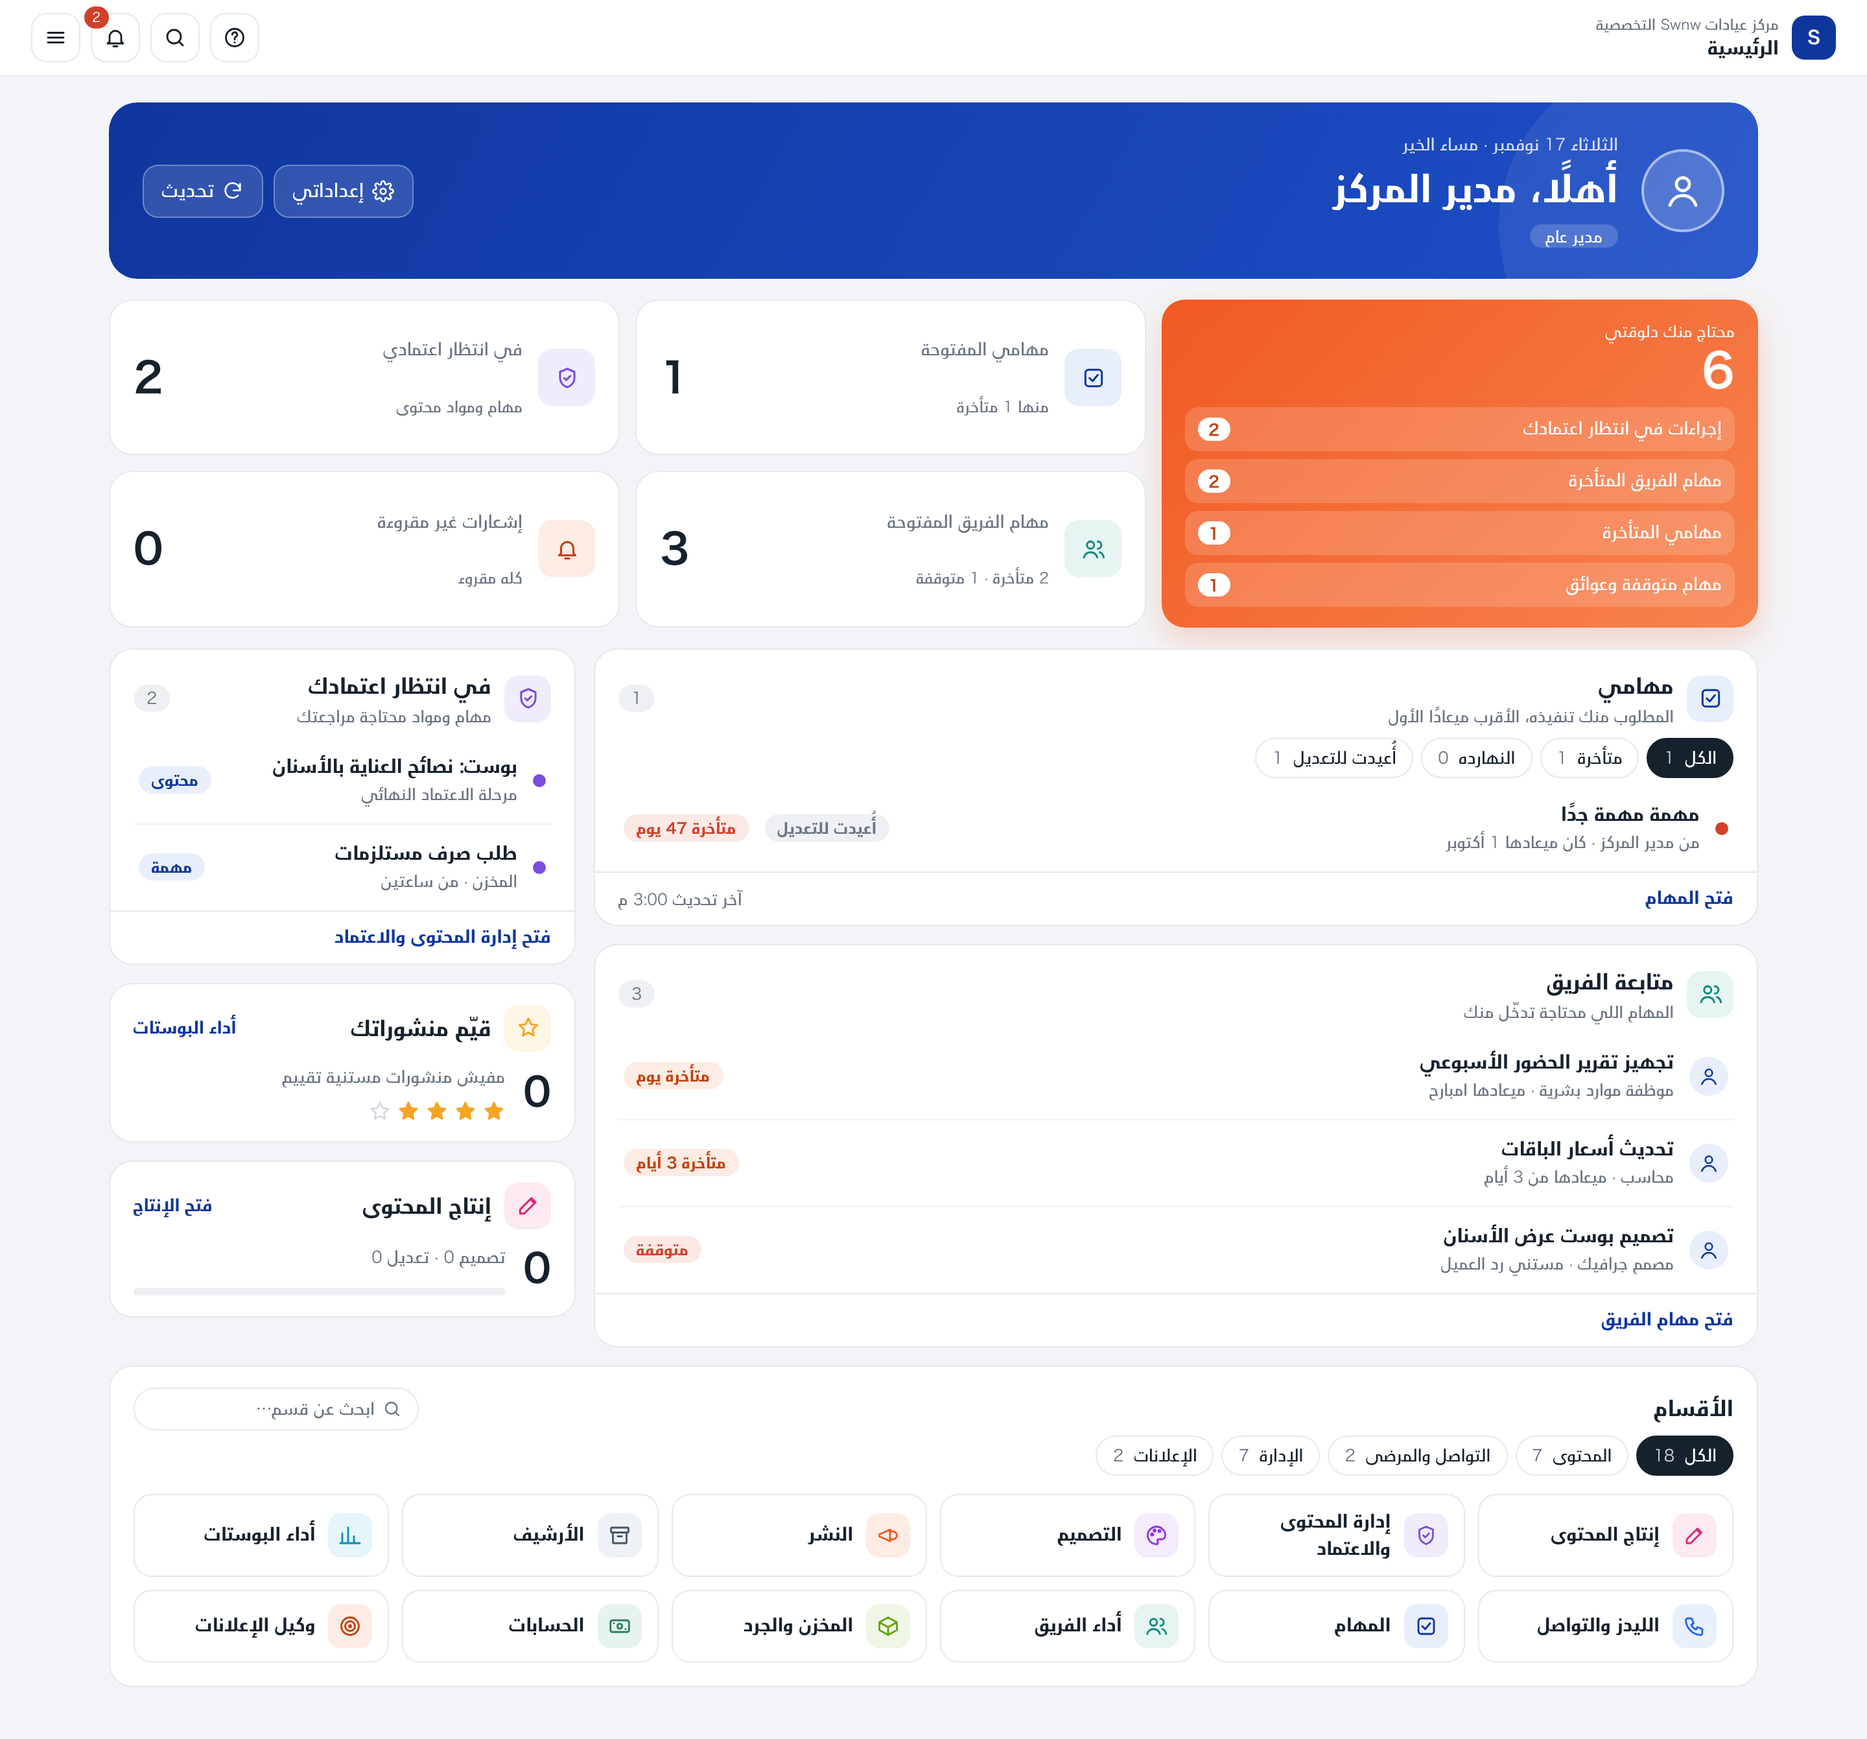
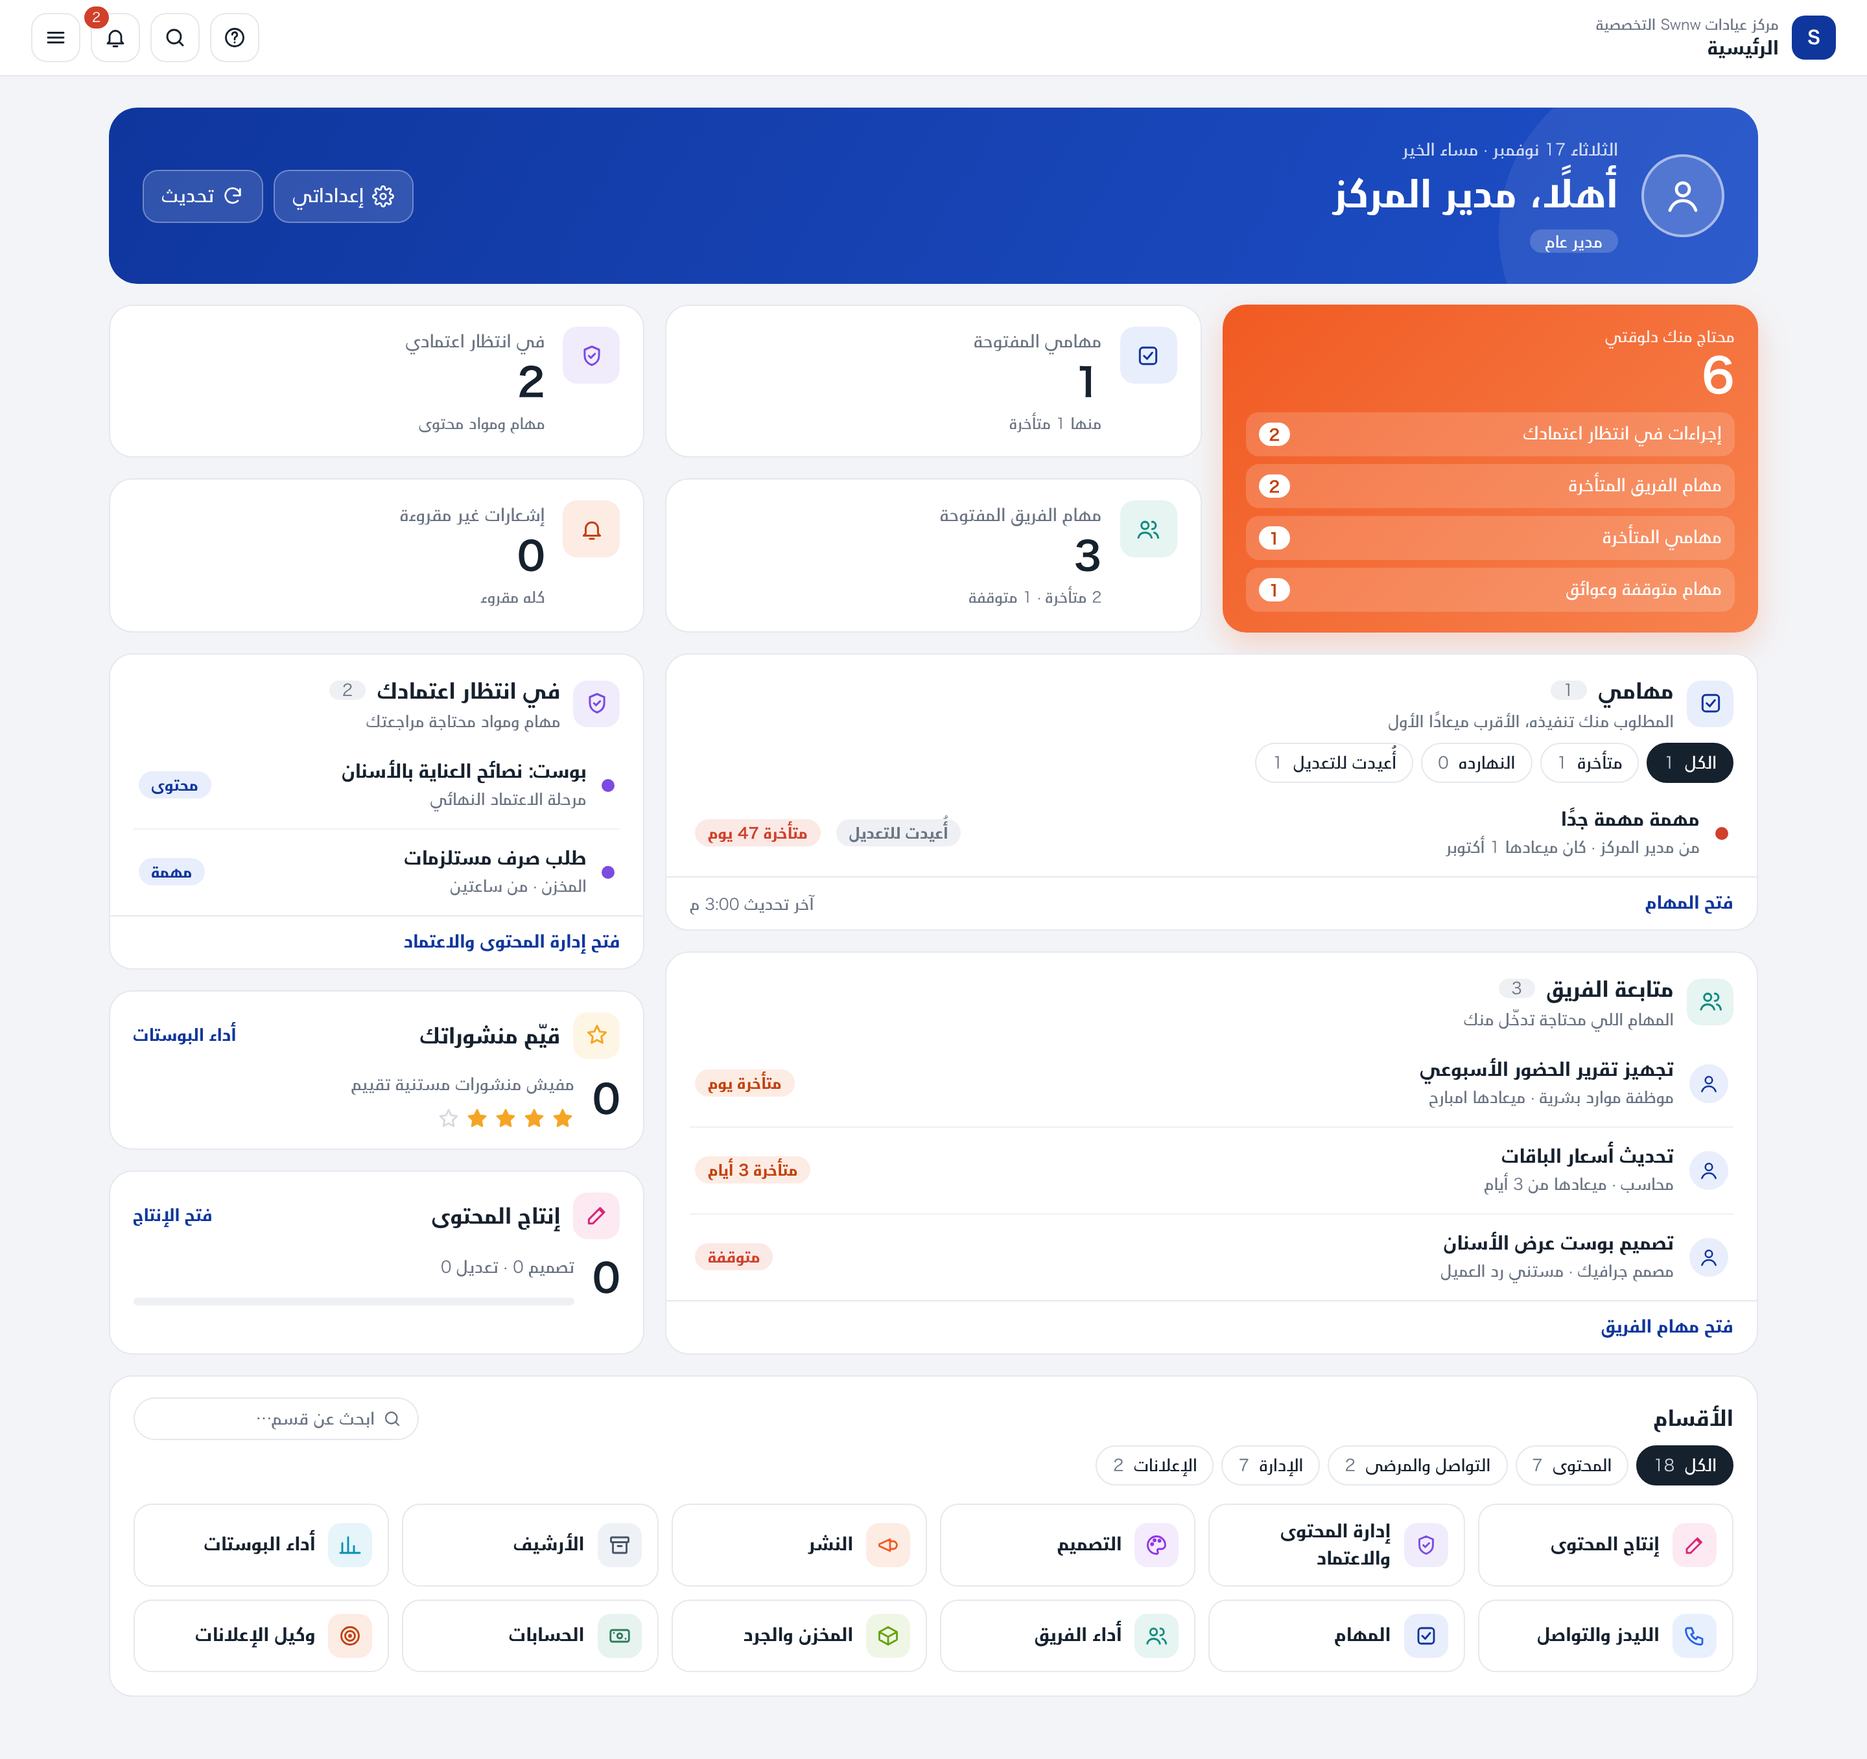
docs: layout-check QA tool, home mockup on one grid (single gutter, aligned edges, equal column bottoms), QA gate in README
Claude-Session: https://claude.ai/code/session_01UqVZHZihapbfrPRQkyZErA

diff --git a/docs/ui-references/mockups/home.html b/docs/ui-references/mockups/home.html
@@ -10,7 +10,7 @@
 @font-face{font-family:"BigVesta Arabic";src:url("../../../assets/fonts/BigVesta-Bold.woff2") format("woff2");font-weight:700}
 @font-face{font-family:"Hiragino Kaku";src:url("../../../assets/fonts/Hiragino-W3.woff2") format("woff2");font-weight:300}
 @font-face{font-family:"Hiragino Kaku";src:url("../../../assets/fonts/Hiragino-W6.woff2") format("woff2");font-weight:600}
-:root{--blue:#0F369D;--orange:#F15A22;--ink:#16212E;--pos:#2F7D5C;--neg:#D0402A;--bg:#F3F4F7;--line:#E6E8EE;--muted:#6B7483;--r:18px;--ease:cubic-bezier(.2,.8,.2,1)}
+:root{--gap:16px;--blue:#0F369D;--orange:#F15A22;--ink:#16212E;--pos:#2F7D5C;--neg:#D0402A;--bg:#F3F4F7;--line:#E6E8EE;--muted:#6B7483;--r:18px;--ease:cubic-bezier(.2,.8,.2,1)}
 *{box-sizing:border-box}
 body{margin:0;background:var(--bg);color:var(--ink);font-family:"Hiragino Kaku","BigVesta Arabic",system-ui,Tahoma,sans-serif;font-size:14px;font-variant-numeric:tabular-nums}
 svg{fill:none;stroke:currentColor;stroke-width:1.9;stroke-linecap:round;stroke-linejoin:round}
@@ -21,7 +21,7 @@ svg{fill:none;stroke:currentColor;stroke-width:1.9;stroke-linecap:round;stroke-l
 .ib{width:38px;height:38px;border-radius:12px;border:1px solid var(--line);background:#fff;display:grid;place-items:center;position:relative;cursor:pointer;transition:all .2s var(--ease)}
 .ib svg{width:18px;height:18px}.ib:hover{background:#F3F5FA;transform:translateY(-1px)}
 .badge{position:absolute;top:-6px;left:-6px;background:var(--neg);color:#fff;font-size:10px;border-radius:9px;padding:1px 6px}
-main{max-width:1320px;margin:0 auto;padding:20px 24px 40px}
+main{max-width:1320px;margin:0 auto;padding:24px 24px 48px;display:flex;flex-direction:column;gap:var(--gap)}
 /* welcome */
 .hello{background:linear-gradient(120deg,#0F369D,#1E4FC8);color:#fff;border-radius:22px;padding:22px 26px;display:flex;align-items:center;gap:18px;position:relative;overflow:hidden}
 .hello::after{content:"";position:absolute;inset:auto -60px -90px auto;width:260px;height:260px;border-radius:50%;background:rgba(255,255,255,.07)}
@@ -33,28 +33,34 @@ main{max-width:1320px;margin:0 auto;padding:20px 24px 40px}
 .hb{background:rgba(255,255,255,.14);border:1px solid rgba(255,255,255,.3);color:#fff;border-radius:12px;padding:9px 14px;display:flex;gap:6px;align-items:center;font:inherit;cursor:pointer;transition:all .2s var(--ease)}
 .hb svg{width:17px;height:17px}.hb:hover{background:#fff;color:var(--blue)}
 /* top row */
-.row1{display:grid;grid-template-columns:1.15fr 2fr;gap:12px;margin:16px 0}
-.kgrid{display:grid;grid-template-columns:1fr 1fr;gap:12px}
+/* one 3-column system for every row: edges line up from top to bottom */
+.row1,.grid{display:grid;grid-template-columns:repeat(3,minmax(0,1fr));gap:var(--gap)}
+.kgrid{grid-column:span 2;display:grid;grid-template-columns:1fr 1fr;gap:var(--gap)}
 .need{background:linear-gradient(135deg,#F15A22,#F7834F);color:#fff;border-radius:var(--r);padding:16px 18px;grid-row:span 1;display:flex;flex-direction:column;box-shadow:0 10px 24px rgba(241,90,34,.22)}
 .need small{opacity:.9}.need>b{font-size:36px;line-height:1.1;margin:2px 0 8px}
 .need .l{display:flex;flex-direction:column;gap:6px;margin-top:auto}
 .need a{background:rgba(255,255,255,.17);border-radius:10px;padding:7px 10px;display:flex;justify-content:space-between;align-items:center;color:#fff;text-decoration:none;font-size:13px;cursor:pointer;transition:all .2s var(--ease)}
 .need a b{background:#fff;color:#C2410C;border-radius:999px;padding:0 8px;font-size:12px}
 .need a:hover{background:rgba(255,255,255,.3);padding-inline:14px}
-.k{background:#fff;border:1px solid var(--line);border-radius:var(--r);padding:16px 18px;display:grid;grid-template-columns:44px 1fr auto;grid-template-rows:auto auto;column-gap:12px;align-items:center;cursor:pointer;transition:transform .22s var(--ease),box-shadow .22s var(--ease),border-color .2s}
+.k{background:#fff;border:1px solid var(--line);border-radius:var(--r);padding:16px 18px;display:grid;grid-template-columns:44px 1fr;grid-template-rows:auto auto auto;column-gap:14px;row-gap:2px;align-items:center;cursor:pointer;transition:transform .22s var(--ease),box-shadow .22s var(--ease),border-color .2s}
 .k:hover{transform:translateY(-3px);box-shadow:0 10px 22px rgba(22,33,46,.08);border-color:#C9D4EE}
-.k .ic{grid-row:span 2;width:44px;height:44px;border-radius:11px;display:grid;place-items:center;background:var(--t);color:var(--c)}.k .ic svg{width:19px;height:19px}
-.k small{color:var(--muted);font-size:13px}.k b{font-size:32px;line-height:1.1;grid-row:span 2;grid-column:3}
-.k i{font-style:normal;font-size:11.5px;color:var(--muted);grid-column:2}
+.k .ic{grid-row:1 / span 3;align-self:start;width:44px;height:44px;border-radius:11px;display:grid;place-items:center;background:var(--t);color:var(--c)}.k .ic svg{width:19px;height:19px}
+.k small{color:var(--muted);font-size:13px}.k b{font-size:30px;line-height:1.1;grid-column:2;grid-row:2}
+.k i{font-style:normal;font-size:11.5px;color:var(--muted);grid-column:2;grid-row:3}
+.k small{grid-column:2;grid-row:1}
 /* two columns */
-.grid{display:grid;grid-template-columns:minmax(0,1fr) 360px;gap:14px;align-items:stretch}
-.col{display:flex;flex-direction:column;gap:14px;min-width:0}
+.grid{align-items:stretch}
+.col{display:flex;flex-direction:column;gap:var(--gap);min-width:0}
+.col.wide{grid-column:span 2}
+/* the last card of each column grows so both columns end on the same line */
+.col>:last-child{flex:1}
+.col>.two{display:flex;flex-direction:column}.col>.two>:last-child{flex:1}
 .card{background:#fff;border:1px solid var(--line);border-radius:var(--r);overflow:hidden;display:flex;flex-direction:column;transition:transform .22s var(--ease),box-shadow .22s var(--ease)}
 .card:hover{box-shadow:0 12px 26px rgba(22,33,46,.06)}
 .ch{display:flex;align-items:center;gap:10px;padding:16px 18px 8px}
 .ch .ci{width:36px;height:36px;border-radius:11px;display:grid;place-items:center;background:var(--t);color:var(--c);flex:none}.ch .ci svg{width:19px;height:19px}
 .ch h3{margin:0;font-size:16px}.ch h3 small{display:block;font-weight:400;color:var(--muted);font-size:12px;margin-top:2px}
-.ch .cnt{margin-inline-start:auto;background:#EEF0F4;border-radius:999px;padding:1px 10px;font-size:12.5px;color:var(--muted)}
+.ch .cnt{vertical-align:2px;margin-inline-start:4px;font-weight:400;background:#EEF0F4;border-radius:999px;padding:1px 10px;font-size:12.5px;color:var(--muted)}
 .seg{display:flex;gap:6px;padding:0 18px 6px;flex-wrap:wrap}
 .pill{border:1px solid var(--line);background:#fff;border-radius:999px;padding:5px 12px;font-size:12.5px;cursor:pointer;transition:all .2s var(--ease)}
 .pill i{font-style:normal;color:var(--muted);margin-inline-start:4px}
@@ -74,12 +80,12 @@ main{max-width:1320px;margin:0 auto;padding:20px 24px 40px}
 .lnk:hover{background-size:100% 2px}
 .card .ch .lnk{margin-inline-start:auto;font-size:12.5px}
 .foot small{color:var(--muted);font-size:12px}
-.two{display:grid;grid-template-columns:1fr;gap:14px}
+.two{gap:var(--gap)}
 .mini{padding:0 18px 14px;display:grid;grid-template-columns:auto 1fr;column-gap:14px;align-items:center}.mini b.big{font-size:30px;grid-row:span 2}.mini .prog,.mini .stars{grid-column:2}.mini p{margin:2px 0 0;color:var(--muted);font-size:12.5px}
 .prog{height:6px;border-radius:6px;background:#EEF0F4;overflow:hidden;margin-top:10px}.prog i{display:block;height:100%;background:var(--c);border-radius:6px}
 .stars{display:flex;gap:4px;margin-top:8px;color:#F5A524}.stars svg{width:18px;height:18px;fill:#F5A524;stroke:#F5A524}.stars svg.e{fill:none;stroke:#D5D9E2}
 /* quick access */
-.qa{margin-top:14px}
+
 .qa .ch{padding-bottom:4px}
 .qs{margin-inline-start:auto;display:flex;align-items:center;gap:6px;border:1px solid var(--line);border-radius:999px;padding:6px 12px;color:var(--muted);font-size:12.5px;min-width:220px}.qs svg{width:15px;height:15px}
 .tiles{display:grid;grid-template-columns:repeat(auto-fill,minmax(190px,1fr));gap:10px;padding:8px 18px 18px}
@@ -93,12 +99,13 @@ main{max-width:1320px;margin:0 auto;padding:20px 24px 40px}
 .hello,.need,.k,.card{animation:rise .5s var(--ease) both}
 .k:nth-child(2){animation-delay:.04s}.k:nth-child(3){animation-delay:.08s}.k:nth-child(4){animation-delay:.12s}
 @keyframes rise{from{opacity:0;transform:translateY(12px)}}
-@media (max-width:1100px){.row1{grid-template-columns:1fr}.grid{grid-template-columns:1fr}}
+@media (max-width:1100px){.row1,.grid{grid-template-columns:1fr}.kgrid,.col.wide{grid-column:auto}}
 @media (max-width:640px){
- main{padding:14px 12px 30px}.top{padding:10px 12px}.top .hide-m{display:none}
+ :root{--gap:12px}
+ main{padding:16px 12px 32px}.top{padding:10px 12px}.top .hide-m{display:none}
  .hello{padding:18px;flex-wrap:wrap}.hello h1{font-size:22px}.ph{width:52px;height:52px}
  .hello .acts{margin:0;width:100%}.hb{flex:1;justify-content:center}
- .row1{gap:10px}.kgrid{gap:10px}.k{padding:12px;grid-template-columns:36px 1fr auto;column-gap:8px}.k .ic{width:36px;height:36px}.k b{font-size:24px}.k small{font-size:12px}.k i{display:none}
+ .k{padding:12px;grid-template-columns:36px 1fr;column-gap:10px}.k .ic{width:36px;height:36px}.k b{font-size:24px}.k small{font-size:12px}.k i{display:none}
  .two{grid-template-columns:1fr}.qs{display:none}.tiles{grid-template-columns:repeat(3,1fr);gap:8px;padding:6px 12px 14px}
  .tile{flex-direction:column;text-align:center;padding:10px 6px;gap:6px}.tile b{font-size:12px}
  .it{flex-wrap:wrap;row-gap:6px}.it .tx{flex:1 1 calc(100% - 50px)}.it .chip:first-of-type{margin-inline-start:42px}
@@ -169,9 +176,9 @@ main{max-width:1320px;margin:0 auto;padding:20px 24px 40px}
  </section>
 
  <div class="grid">
-  <div class="col">
+  <div class="col wide">
    <article class="card" style="--c:#0F369D;--t:#E8EEFB">
-    <div class="ch"><span class="ci"><svg><use href="#task"/></svg></span><h3>مهامي<small>المطلوب منك تنفيذه، الأقرب ميعادًا الأول</small></h3><span class="cnt">1</span></div>
+    <div class="ch"><span class="ci"><svg><use href="#task"/></svg></span><h3>مهامي <span class="cnt">1</span><small>المطلوب منك تنفيذه، الأقرب ميعادًا الأول</small></h3></div>
     <div class="seg"><span class="pill on">الكل <i>1</i></span><span class="pill">متأخرة <i>1</i></span><span class="pill">النهارده <i>0</i></span><span class="pill">أُعيدت للتعديل <i>1</i></span></div>
     <ul class="list">
      <li class="it"><span class="dot" style="--c:#D0402A"></span><div class="tx"><b>مهمة مهمة جدًا</b><small>من مدير المركز · كان ميعادها 1 أكتوبر</small></div><span class="chip c-gry">أُعيدت للتعديل</span><span class="chip c-red">متأخرة 47 يوم</span></li>
@@ -180,7 +187,7 @@ main{max-width:1320px;margin:0 auto;padding:20px 24px 40px}
    </article>
 
    <article class="card" style="--c:#0E8A7E;--t:#E6F4F2">
-    <div class="ch"><span class="ci"><svg><use href="#team"/></svg></span><h3>متابعة الفريق<small>المهام اللي محتاجة تدخّل منك</small></h3><span class="cnt">3</span></div>
+    <div class="ch"><span class="ci"><svg><use href="#team"/></svg></span><h3>متابعة الفريق <span class="cnt">3</span><small>المهام اللي محتاجة تدخّل منك</small></h3></div>
     <ul class="list">
      <li class="it"><span class="av"><svg><use href="#user"/></svg></span><div class="tx"><b>تجهيز تقرير الحضور الأسبوعي</b><small>موظفة موارد بشرية · ميعادها امبارح</small></div><span class="chip c-org">متأخرة يوم</span></li>
      <li class="it"><span class="av"><svg><use href="#user"/></svg></span><div class="tx"><b>تحديث أسعار الباقات</b><small>محاسب · ميعادها من 3 أيام</small></div><span class="chip c-org">متأخرة 3 أيام</span></li>
@@ -192,7 +199,7 @@ main{max-width:1320px;margin:0 auto;padding:20px 24px 40px}
 
   <div class="col">
    <article class="card" style="--c:#7A4CE0;--t:#F1ECFC">
-    <div class="ch"><span class="ci"><svg><use href="#ok"/></svg></span><h3>في انتظار اعتمادك<small>مهام ومواد محتاجة مراجعتك</small></h3><span class="cnt">2</span></div>
+    <div class="ch"><span class="ci"><svg><use href="#ok"/></svg></span><h3>في انتظار اعتمادك <span class="cnt">2</span><small>مهام ومواد محتاجة مراجعتك</small></h3></div>
     <ul class="list">
      <li class="it"><span class="dot" style="--c:#7A4CE0"></span><div class="tx"><b>بوست: نصائح العناية بالأسنان</b><small>مرحلة الاعتماد النهائي</small></div><span class="chip c-blu">محتوى</span></li>
      <li class="it"><span class="dot" style="--c:#7A4CE0"></span><div class="tx"><b>طلب صرف مستلزمات</b><small>المخزن · من ساعتين</small></div><span class="chip c-blu">مهمة</span></li>

diff --git a/docs/ui-references/README.md b/docs/ui-references/README.md
@@ -55,3 +55,12 @@ if the owner forwards a GitHub link.
 - No React/Tailwind/framer-motion: the dashboard is plain HTML/CSS/JS with no
   build step, so hover lifts and transitions are done in CSS
   (`transform`, `transition`) inside `assets/css/dashboard-theme.css`.
+
+## QA gate before any screenshot is shown to the owner
+
+1. `node docs/ui-references/tools/layout-check.cjs <page> [cardSelector] 1440 1024 390` must print PASS at every width:
+   one gutter value, no near-miss edges between rows, side-by-side columns end on the same line,
+   no clipped text, no horizontal overflow.
+2. Review against the Refactoring UI checklist (hierarchy, spacing scale, grouping, button hierarchy,
+   clutter, shadows, contrast, empty states). Counts sit next to their titles; numbers sit under their labels.
+3. Spacing tokens: 16px gap on desktop, 12px on phones (presence board uses 14/12, matching the attendance hub).
